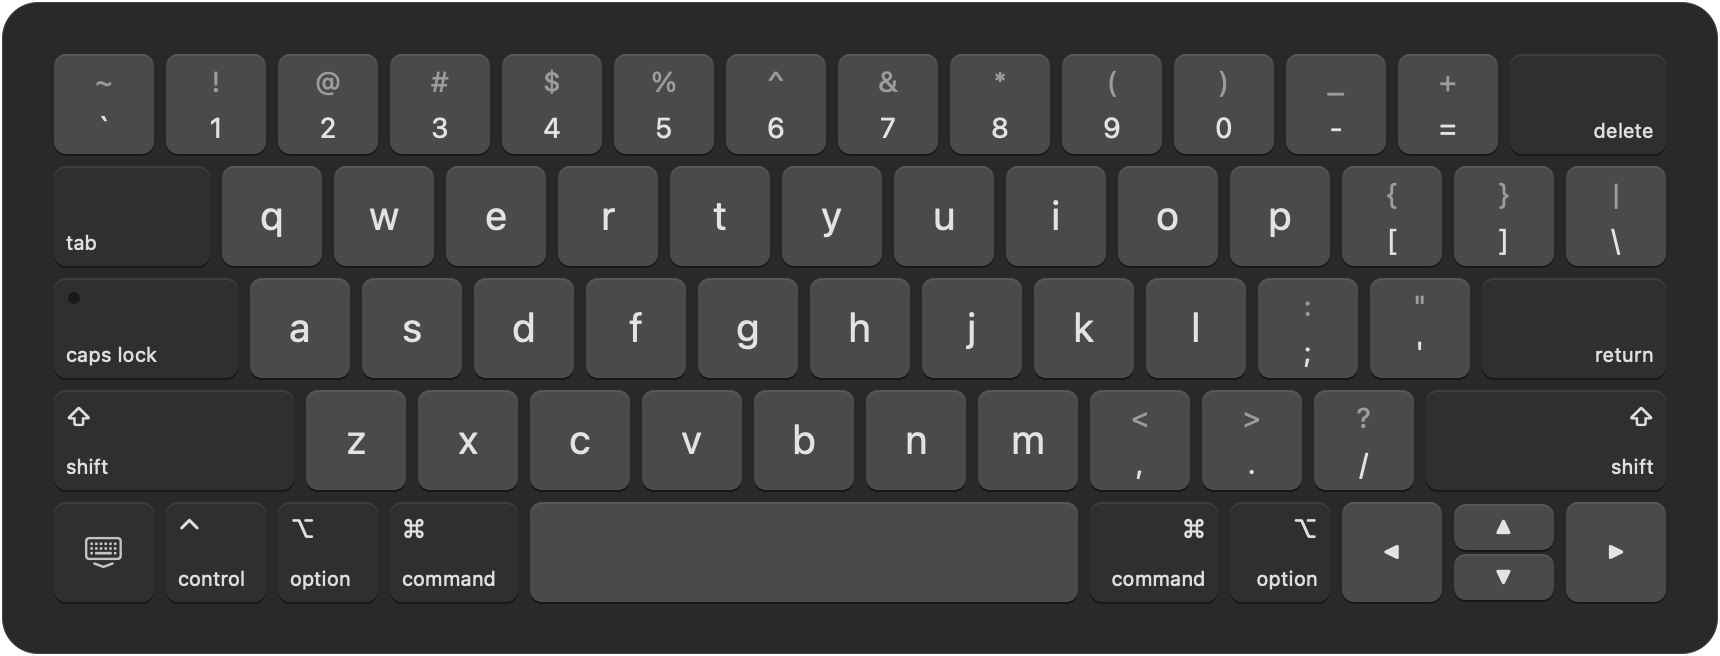
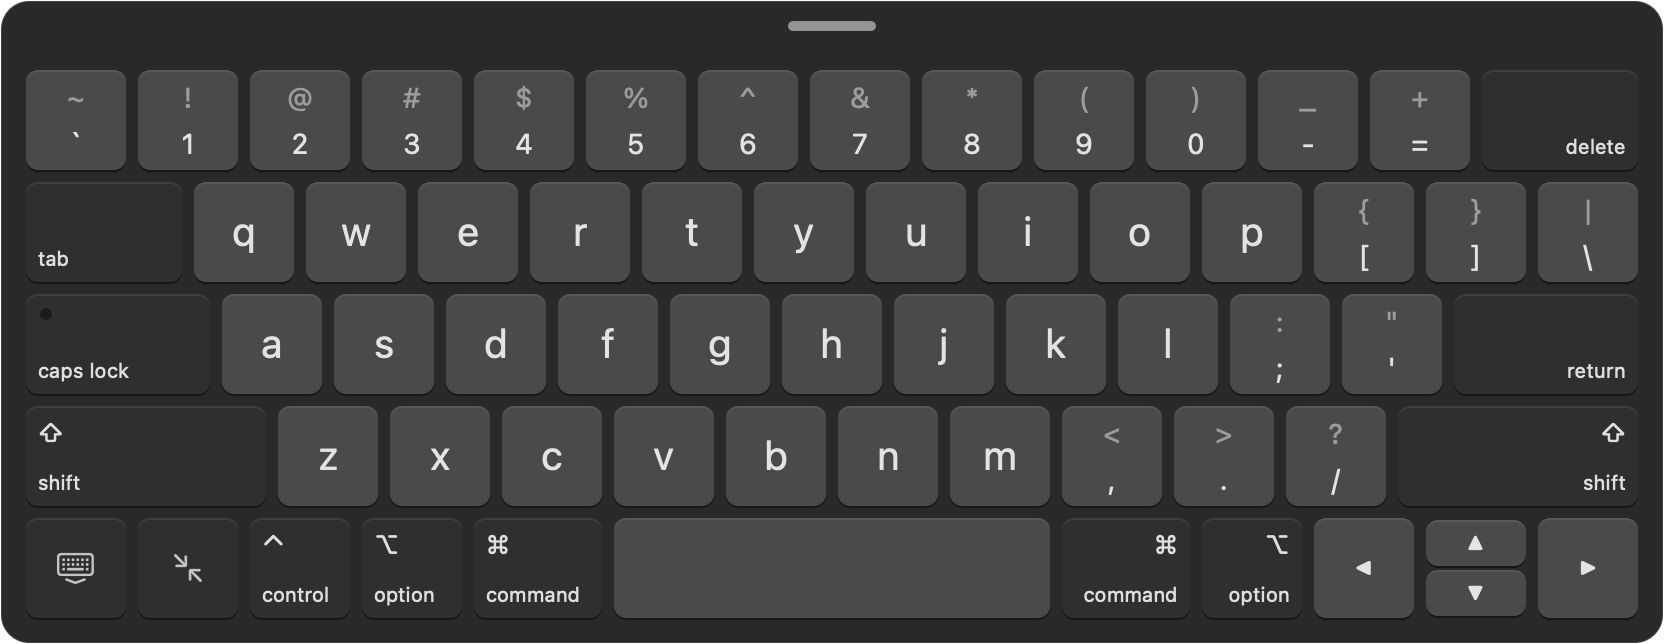
Add a key that shrinks the keyboard to a mini keyboard
The key next to the hide key switches to the same layout at 60% size
and back. Keys, gaps, fonts and the handle all scale, so touches still
land on the right key. Resizing keeps the bottom edge and horizontal
center, or the screen edge the keyboard is snapped to, and the size is
remembered. The space bar is one unit shorter to make room.

README screenshots now show the drag handle and the new key.

diff --git a/TouchMyMac/AppDelegate.swift b/TouchMyMac/AppDelegate.swift
@@ -237,6 +237,7 @@ struct KeyboardKey {
         case modifier(CGEventFlags) // sticky: applies to the next key press
         case capsLock
         case hide
+        case toggleSize // switches between the full and the mini keyboard
     }
 
     enum Alignment {
@@ -349,10 +350,11 @@ final class FloatingKeyboardView: NSView {
             ],
         [
             .key(KeyboardKey(label: "", role: .hide)),
+            .key(KeyboardKey(label: "", role: .toggleSize)),
             .key(.modifier("control", glyph: "⌃", flag: .maskControl, width: 1, alignment: .leading)),
             .key(.modifier("option", glyph: "⌥", flag: .maskAlternate, width: 1, alignment: .leading)),
             .key(.modifier("command", glyph: "⌘", flag: .maskCommand, width: 1.25, alignment: .leading)),
-            .key(KeyboardKey(label: "", keyCode: kVK_Space, width: 5, repeats: true)),
+            .key(KeyboardKey(label: "", keyCode: kVK_Space, width: 4, repeats: true)),
             .key(.modifier("command", glyph: "⌘", flag: .maskCommand, width: 1.25, alignment: .trailing)),
             .key(.modifier("option", glyph: "⌥", flag: .maskAlternate, width: 1, alignment: .trailing)),
             .key(.arrow("◀", kVK_LeftArrow)),
@@ -361,11 +363,24 @@ final class FloatingKeyboardView: NSView {
         ]
     ]
 
-    static let contentSize = NSSize(width: 14.5 * unit + 2 * padding,
-                                    height: grabberHeight + CGFloat(rows.count) * unit + 2 * padding)
+    /// The mini keyboard is the same layout at this size.
+    static let compactScale: CGFloat = 0.6
+
+    static func contentSize(scale: CGFloat) -> NSSize {
+        NSSize(width: (14.5 * unit + 2 * padding) * scale,
+               height: (grabberHeight + CGFloat(rows.count) * unit + 2 * padding) * scale)
+    }
 
     private weak var model: TouchMyMac?
-    private let keys: [(key: KeyboardKey, rect: NSRect)] = FloatingKeyboardView.makeLayout()
+    private var keys: [(key: KeyboardKey, rect: NSRect)] = FloatingKeyboardView.makeLayout(scale: 1)
+
+    var isCompact = false {
+        didSet {
+            keys = Self.makeLayout(scale: scale)
+            needsDisplay = true
+        }
+    }
+    var scale: CGFloat { isCompact ? Self.compactScale : 1 }
 
     private var latchedModifiers: CGEventFlags = []
     private var isCapsLockOn = false
@@ -382,7 +397,7 @@ final class FloatingKeyboardView: NSView {
 
     init(model: TouchMyMac) {
         self.model = model
-        super.init(frame: NSRect(origin: .zero, size: Self.contentSize))
+        super.init(frame: NSRect(origin: .zero, size: Self.contentSize(scale: 1)))
     }
 
     required init?(coder: NSCoder) {
@@ -536,13 +551,14 @@ final class FloatingKeyboardView: NSView {
     }
 
     private var grabberRect: NSRect {
-        let width: CGFloat = dragID == nil ? 44 : 64
-        return NSRect(x: bounds.midX - width / 2, y: Self.grabberHeight / 2 + 2, width: width, height: 5)
+        let width: CGFloat = (dragID == nil ? 44 : 64) * scale
+        let height = max(5 * scale, 3)
+        return NSRect(x: bounds.midX - width / 2, y: (Self.grabberHeight * scale - height) / 2 + 2 * scale, width: width, height: height)
     }
 
     private func keyIndex(at point: NSPoint) -> Int? {
         // Grow each key by half the gap so a touch between two keys still hits one of them.
-        keys.firstIndex { $0.rect.insetBy(dx: -Self.gap / 2, dy: -Self.gap / 2).contains(point) }
+        keys.firstIndex { $0.rect.insetBy(dx: -Self.gap * scale / 2, dy: -Self.gap * scale / 2).contains(point) }
     }
 
     private func press(_ index: Int, id: UUID) {
@@ -573,6 +589,9 @@ final class FloatingKeyboardView: NSView {
 
         case .hide:
             window?.orderOut(nil)
+
+        case .toggleSize:
+            (window as? FloatingKeyboardPanel)?.setCompact(!isCompact)
 
         case .character:
             var flags = latchedModifiers
@@ -613,11 +632,12 @@ final class FloatingKeyboardView: NSView {
         zip(letters, keyCodes).map { .key(.letter(String($0), $1)) }
     }
 
-    private static func makeLayout() -> [(key: KeyboardKey, rect: NSRect)] {
+    private static func makeLayout(scale: CGFloat) -> [(key: KeyboardKey, rect: NSRect)] {
         var layout: [(key: KeyboardKey, rect: NSRect)] = []
+        let unit = Self.unit * scale, gap = Self.gap * scale, padding = Self.padding * scale
 
         for (rowIndex, row) in rows.enumerated() {
-            let y = grabberHeight + padding + CGFloat(rowIndex) * unit
+            let y = (grabberHeight + Self.padding) * scale + CGFloat(rowIndex) * unit
             var x = padding
 
             for slot in row {
@@ -656,7 +676,7 @@ final class FloatingKeyboardView: NSView {
     }
 
     private func drawKey(_ key: KeyboardKey, in rect: NSRect, isPressed: Bool) {
-        let cornerRadius: CGFloat = 6
+        let cornerRadius: CGFloat = 6 * scale
 
         NSColor.keyEdge.setFill()
         NSBezierPath(roundedRect: rect.offsetBy(dx: 0, dy: 1), xRadius: cornerRadius, yRadius: cornerRadius).fill()
@@ -679,33 +699,38 @@ final class FloatingKeyboardView: NSView {
         let isShifted = latchedModifiers.contains(.maskShift)
 
         if key.role == .hide {
-            drawHideSymbol(in: rect, color: color)
+            drawSymbol("keyboard.chevron.compact.down", description: "Hide Keyboard", in: rect, color: color)
+            return
+        }
+        if key.role == .toggleSize {
+            drawSymbol(isCompact ? "arrow.up.left.and.arrow.down.right" : "arrow.down.right.and.arrow.up.left",
+                       description: isCompact ? "Full-Size Keyboard" : "Mini Keyboard", in: rect, color: color)
             return
         }
 
         if key.role == .capsLock {
-            let indicator = NSRect(x: rect.minX + 7, y: rect.minY + 7, width: 6, height: 6)
+            let indicator = NSRect(x: rect.minX + 7 * scale, y: rect.minY + 7 * scale, width: 6 * scale, height: 6 * scale)
             (isCapsLockOn ? NSColor.systemGreen : NSColor.keyEdge).setFill()
             NSBezierPath(ovalIn: indicator).fill()
         }
 
         if key.alignment != .center {
             if let glyph = key.glyph {
-                drawText(glyph, font: .functionKeyGlyphFont, color: color, in: rect, horizontal: key.alignment, vertical: .top)
+                drawText(glyph, font: font(13), color: color, in: rect, horizontal: key.alignment, vertical: .top)
             }
-            drawText(key.label, font: .functionKeyFont, color: color, in: rect, horizontal: key.alignment, vertical: .bottom)
+            drawText(key.label, font: font(10), color: color, in: rect, horizontal: key.alignment, vertical: .bottom)
 
         } else if let shiftedLabel = key.shiftedLabel {
             let dimmed = color.withAlphaComponent(0.45)
-            drawText(shiftedLabel, font: .symbolKeyFont, color: isShifted ? color : dimmed, in: rect, horizontal: .center, vertical: .top)
-            drawText(key.label, font: .symbolKeyFont, color: isShifted ? dimmed : color, in: rect, horizontal: .center, vertical: .bottom)
+            drawText(shiftedLabel, font: font(14), color: isShifted ? color : dimmed, in: rect, horizontal: .center, vertical: .top)
+            drawText(key.label, font: font(14), color: isShifted ? dimmed : color, in: rect, horizontal: .center, vertical: .bottom)
 
         } else if key.isLetter {
             let label = (isShifted || isCapsLockOn) ? key.label.uppercased() : key.label
-            drawText(label, font: .letterKeyFont, color: color, in: rect, horizontal: .center, vertical: .center)
+            drawText(label, font: font(20), color: color, in: rect, horizontal: .center, vertical: .center)
 
         } else {
-            drawText(key.label, font: .arrowKeyFont, color: color, in: rect, horizontal: .center, vertical: .center)
+            drawText(key.label, font: font(11), color: color, in: rect, horizontal: .center, vertical: .center)
         }
     }
 
@@ -713,7 +738,7 @@ final class FloatingKeyboardView: NSView {
                           horizontal: KeyboardKey.Alignment, vertical: VerticalPlacement) {
         let attributes: [NSAttributedString.Key: Any] = [.font: font, .foregroundColor: color]
         let size = (text as NSString).size(withAttributes: attributes)
-        let content = rect.insetBy(dx: 6, dy: 5)
+        let content = rect.insetBy(dx: 6 * scale, dy: 5 * scale)
 
         let x: CGFloat
         switch horizontal {
@@ -732,10 +757,15 @@ final class FloatingKeyboardView: NSView {
         (text as NSString).draw(at: NSPoint(x: x, y: y), withAttributes: attributes)
     }
 
-    private func drawHideSymbol(in rect: NSRect, color: NSColor) {
-        let configuration = NSImage.SymbolConfiguration(pointSize: 15, weight: .regular)
+    /// System font at `size` points for the full-size keyboard, scaled for the mini one.
+    private func font(_ size: CGFloat) -> NSFont {
+        NSFont.systemFont(ofSize: size * scale)
+    }
+
+    private func drawSymbol(_ name: String, description: String, in rect: NSRect, color: NSColor) {
+        let configuration = NSImage.SymbolConfiguration(pointSize: 15 * scale, weight: .regular)
             .applying(NSImage.SymbolConfiguration(paletteColors: [color]))
-        guard let image = NSImage(systemSymbolName: "keyboard.chevron.compact.down", accessibilityDescription: "Hide Keyboard")?
+        guard let image = NSImage(systemSymbolName: name, accessibilityDescription: description)?
             .withSymbolConfiguration(configuration) else { return }
 
         let size = image.size
@@ -755,26 +785,22 @@ private extension NSAppearance {
     var isDark: Bool { bestMatch(from: [.darkAqua, .aqua]) == .darkAqua }
 }
 
-private extension NSFont {
-    static let letterKeyFont = NSFont.systemFont(ofSize: 20)
-    static let symbolKeyFont = NSFont.systemFont(ofSize: 14)
-    static let arrowKeyFont = NSFont.systemFont(ofSize: 11)
-    static let functionKeyFont = NSFont.systemFont(ofSize: 10)
-    static let functionKeyGlyphFont = NSFont.systemFont(ofSize: 13)
-}
-
-
 class FloatingKeyboardPanel: NSPanel {
     let keyboardView: FloatingKeyboardView
     private weak var model: TouchMyMac?
     private var userOrigin: NSPoint? // where the user last moved the panel
+    private static let compactDefaultsKey = "isFloatingKeyboardCompact"
 
     init(model: TouchMyMac) {
         self.model = model
         self.keyboardView = FloatingKeyboardView(model: model)
 
+        let isCompact = UserDefaults.standard.bool(forKey: Self.compactDefaultsKey)
+        keyboardView.isCompact = isCompact
+        let size = FloatingKeyboardView.contentSize(scale: keyboardView.scale)
+
         // No title bar: the keyboard's own handle and empty edge move it (see FloatingKeyboardView).
-        super.init(contentRect: NSRect(origin: .zero, size: FloatingKeyboardView.contentSize),
+        super.init(contentRect: NSRect(origin: .zero, size: size),
                    styleMask: [.borderless, .nonactivatingPanel],
                    backing: .buffered,
                    defer: true)
@@ -790,7 +816,7 @@ class FloatingKeyboardPanel: NSPanel {
         level = NSWindow.Level(Int(CGWindowLevelForKey(.assistiveTechHighWindow)))
         collectionBehavior = [.canJoinAllSpaces, .fullScreenAuxiliary]
 
-        let background = NSVisualEffectView(frame: NSRect(origin: .zero, size: FloatingKeyboardView.contentSize))
+        let background = NSVisualEffectView(frame: NSRect(origin: .zero, size: size))
         background.material = .hudWindow
         background.blendingMode = .behindWindow
         background.state = .active
@@ -827,6 +853,31 @@ class FloatingKeyboardPanel: NSPanel {
 
     func rememberPosition() {
         userOrigin = frame.origin
+    }
+
+    /// Switches between the full and the mini keyboard. The panel keeps its bottom edge and horizontal
+    /// center, or the screen edge it was snapped to, and the choice is remembered.
+    func setCompact(_ compact: Bool) {
+        guard compact != keyboardView.isCompact else { return }
+        let old = frame
+        keyboardView.isCompact = compact
+        UserDefaults.standard.set(compact, forKey: Self.compactDefaultsKey)
+
+        let size = FloatingKeyboardView.contentSize(scale: keyboardView.scale)
+        var origin = NSPoint(x: old.midX - size.width / 2, y: old.minY)
+        if let area = screen?.visibleFrame {
+            if abs(old.minX - area.minX) < 1 {
+                origin.x = area.minX
+            } else if abs(old.maxX - area.maxX) < 1 {
+                origin.x = area.maxX - size.width
+            }
+            if abs(old.maxY - area.maxY) < 1 {
+                origin.y = area.maxY - size.height
+            }
+            origin = FloatingKeyboardView.snappedOrigin(origin, size: size, in: area)
+        }
+        setFrame(NSRect(origin: origin, size: size), display: true)
+        rememberPosition()
     }
 
     override func orderOut(_ sender: Any?) {

diff --git a/README.md b/README.md
@@ -60,6 +60,7 @@ TouchMyMac turns an external USB touchscreen into a real macOS input device. It 
 - Delete, space and the arrow keys repeat while held
 - Floats above every other window; drag it by the handle on top or its empty edge, and it remembers where you put it
 - Hide it with the hide key or a four-finger swipe down, which also works with your fingers on the keyboard
+- Shrink it to a mini keyboard (the same layout at 60% size) with the key next to the hide key; it remembers the size
 
 ## 🌀 How scrolling works
 

diff --git a/README.zh-CN.md b/README.zh-CN.md
@@ -60,6 +60,7 @@ TouchMyMac 能把一块外接的 USB 触摸屏变成真正的 macOS 输入设备
 - 按住 Delete、空格和方向键会连续输入
 - 始终浮在所有窗口之上；按住顶部的拖动条或键盘边缘的空白处就能拖动，并会记住你放的位置
 - 点隐藏键或四指下滑即可收起，手指放在键盘上下滑也可以
+- 隐藏键旁边的按键可以把它缩成 mini 键盘（布局不变，尺寸缩到 60%），并会记住大小
 
 ## 🌀 滚动是怎么做的
 
